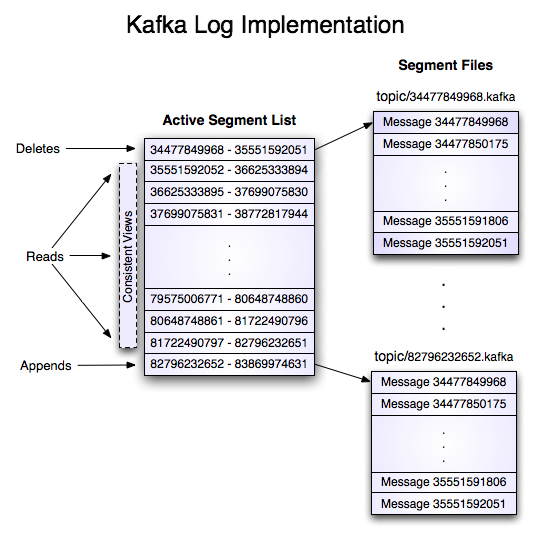
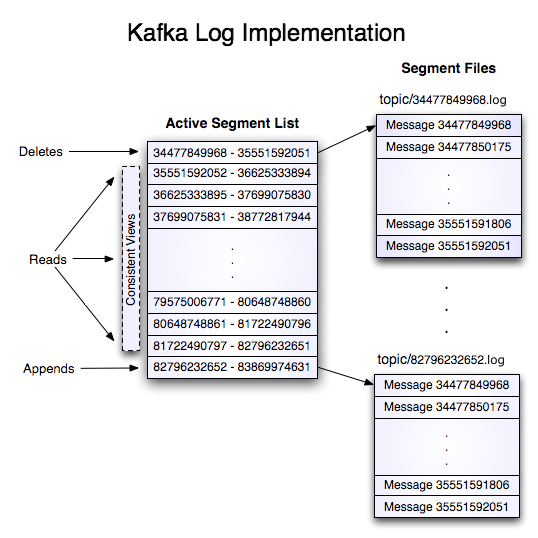
Minor: replace .kafka with .log in implementation documentation (#12401)
replace .kafka with .log in implementation documentation

Reviewers: Luke Chen <showuon@gmail.com>, Liam Clarke-Hutchinson <liam@steelsky.co.nz>

diff --git a/docs/implementation.html b/docs/implementation.html
@@ -164,7 +164,7 @@ message => crc magic_byte attributes timestamp key value
 
     <h3 class="anchor-heading"><a id="log" class="anchor-link"></a><a href="#log">5.4 Log</a></h3>
     <p>
-    A log for a topic named "my_topic" with two partitions consists of two directories (namely <code>my_topic_0</code> and <code>my_topic_1</code>) populated with data files containing the messages for that topic. The format of the log files is a sequence of "log entries""; each log entry is a 4 byte integer <i>N</i> storing the message length which is followed by the <i>N</i> message bytes. Each message is uniquely identified by a 64-bit integer <i>offset</i> giving the byte position of the start of this message in the stream of all messages ever sent to that topic on that partition. The on-disk format of each message is given below. Each log file is named with the offset of the first message it contains. So the first file created will be 00000000000.kafka, and each additional file will have an integer name roughly <i>S</i> bytes from the previous file where <i>S</i> is the max log file size given in the configuration.
+    A log for a topic named "my-topic" with two partitions consists of two directories (namely <code>my-topic-0</code> and <code>my-topic-1</code>) populated with data files containing the messages for that topic. The format of the log files is a sequence of "log entries"; each log entry is a 4 byte integer <i>N</i> storing the message length which is followed by the <i>N</i> message bytes. Each message is uniquely identified by a 64-bit integer <i>offset</i> giving the byte position of the start of this message in the stream of all messages ever sent to that topic on that partition. The on-disk format of each message is given below. Each log file is named with the offset of the first message it contains. So the first file created will be 00000000000000000000.log, and each additional file will have an integer name roughly <i>S</i> bytes from the previous file where <i>S</i> is the max log file size given in the configuration.
     </p>
     <p>
     The exact binary format for records is versioned and maintained as a standard interface so record batches can be transferred between producer, broker, and client without recopying or conversion when desirable. The previous section included details about the on-disk format of records.
